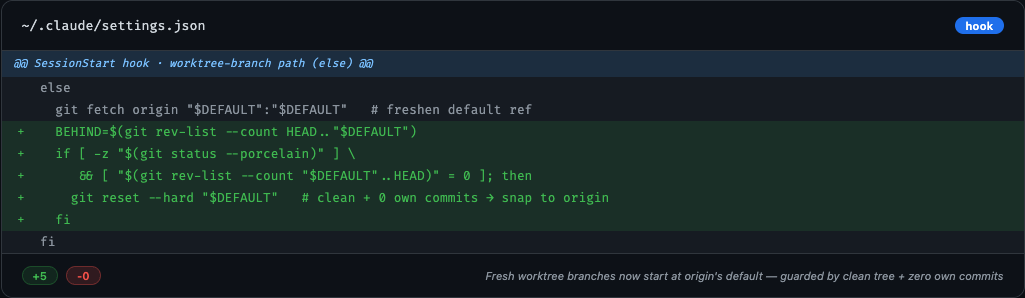
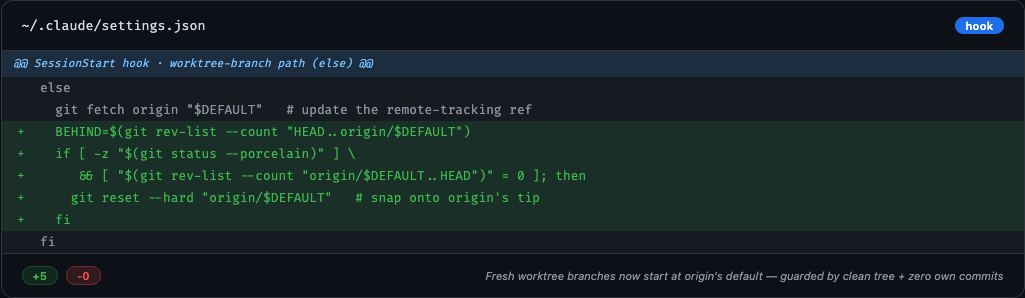
docs: regenerate social card to match the remote-tracking-ref fix
The card diff now shows "git fetch origin <default>" and
"git reset --hard origin/<default>", matching the corrected hook from
83bbcc1 instead of the pre-fix local-ref form.

diff --git a/docs/media/social/diff-sessionstart-worktree-origin-reset-2026-06-18.html b/docs/media/social/diff-sessionstart-worktree-origin-reset-2026-06-18.html
@@ -221,11 +221,11 @@
       <tbody>
         <tr><td colspan="2" class="hunk-header">@@ SessionStart hook · worktree-branch path (else) @@</td></tr>
         <tr class="ctx"><td class="ln"> </td><td class="code"> else</td></tr>
-        <tr class="ctx"><td class="ln"> </td><td class="code">   git fetch origin "$DEFAULT":"$DEFAULT"   # freshen default ref</td></tr>
-        <tr class="add"><td class="ln">+</td><td class="code">   BEHIND=$(git rev-list --count HEAD.."$DEFAULT")</td></tr>
+        <tr class="ctx"><td class="ln"> </td><td class="code">   git fetch origin "$DEFAULT"   # update the remote-tracking ref</td></tr>
+        <tr class="add"><td class="ln">+</td><td class="code">   BEHIND=$(git rev-list --count "HEAD..origin/$DEFAULT")</td></tr>
         <tr class="add"><td class="ln">+</td><td class="code">   if [ -z "$(git status --porcelain)" ] \</td></tr>
-        <tr class="add"><td class="ln">+</td><td class="code">      &amp;&amp; [ "$(git rev-list --count "$DEFAULT"..HEAD)" = 0 ]; then</td></tr>
-        <tr class="add"><td class="ln">+</td><td class="code">     git reset --hard "$DEFAULT"   # clean + 0 own commits → snap to origin</td></tr>
+        <tr class="add"><td class="ln">+</td><td class="code">      &amp;&amp; [ "$(git rev-list --count "origin/$DEFAULT..HEAD")" = 0 ]; then</td></tr>
+        <tr class="add"><td class="ln">+</td><td class="code">     git reset --hard "origin/$DEFAULT"   # snap onto origin's tip</td></tr>
         <tr class="add"><td class="ln">+</td><td class="code">   fi</td></tr>
         <tr class="ctx"><td class="ln"> </td><td class="code"> fi</td></tr>
       </tbody>
